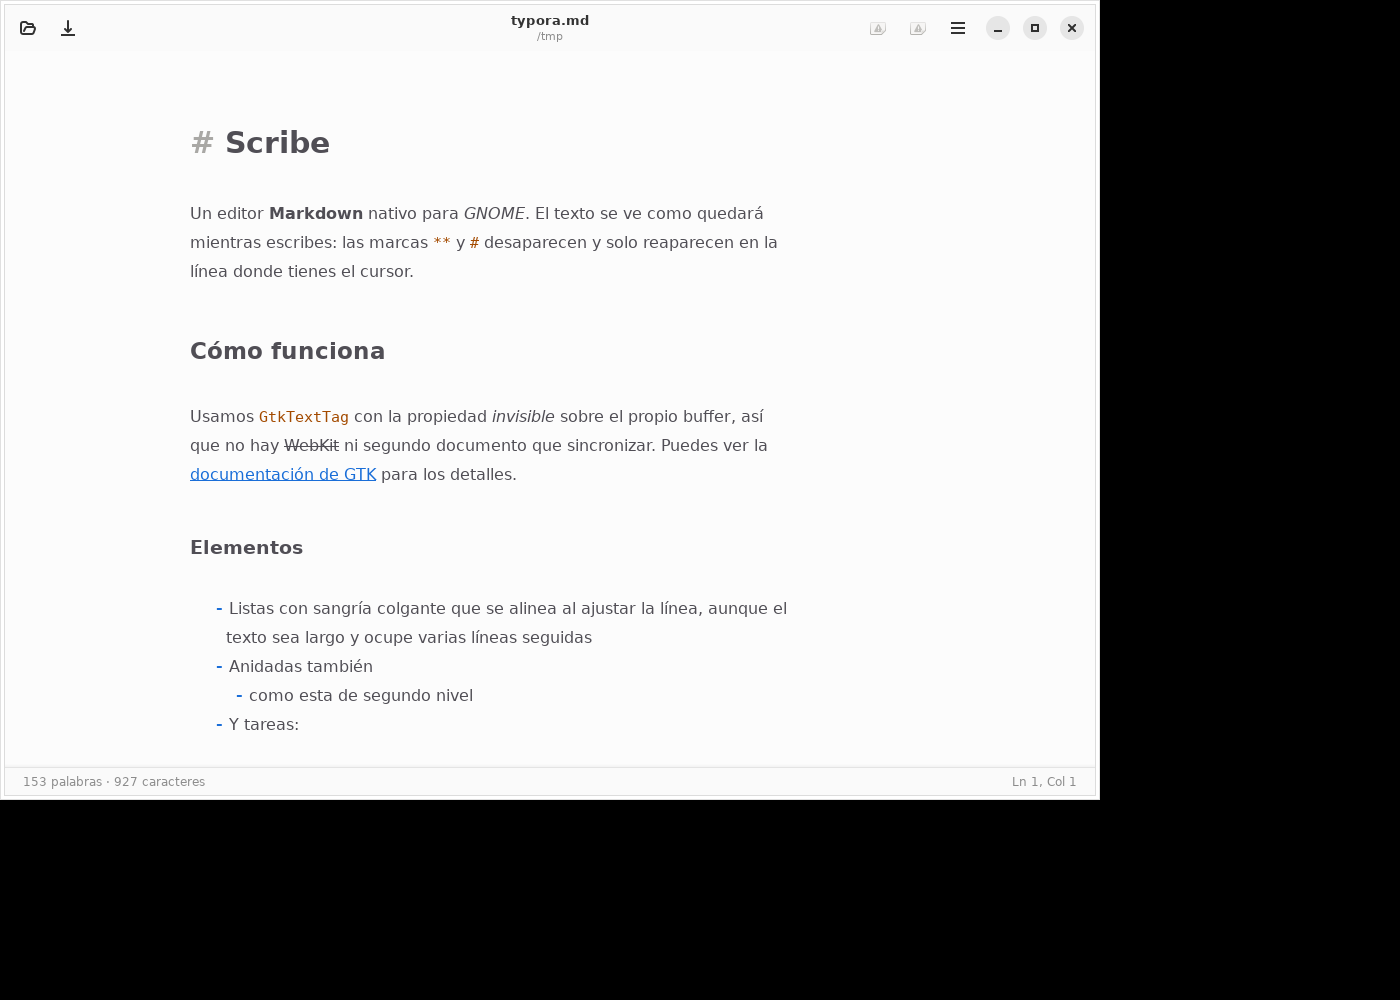
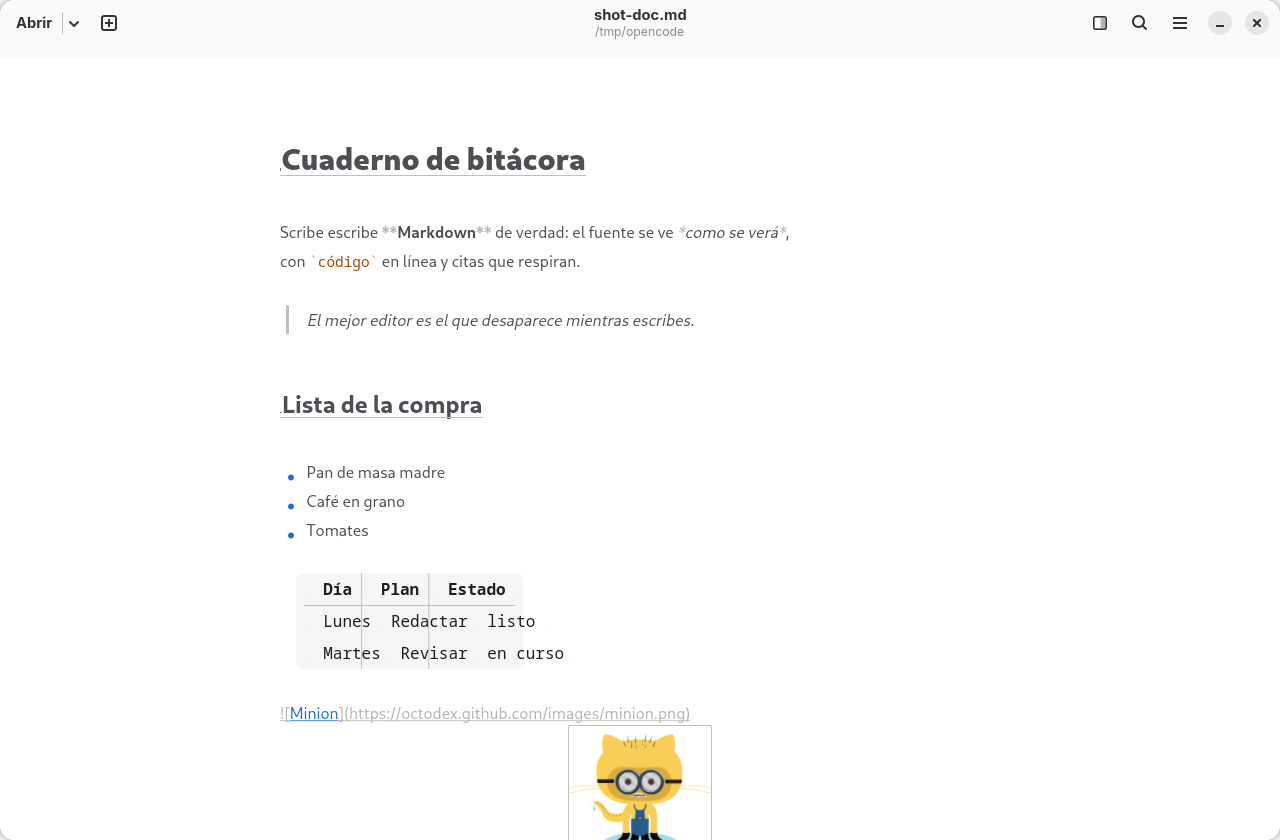
docs: refresh the screenshots for the current UI
The old shots showed the status bar and the previous menu. The hero
(light and dark) is re-taken without the bar and with a table, a list and
a picture painted from a URL; the stale menu shot is replaced by the split
preview and the find bar, both new since the last capture round.

diff --git a/README.es.md b/README.es.md
@@ -188,13 +188,17 @@ La interfaz está actualmente en español.
 <picture>
   <source media="(prefers-color-scheme: dark)" srcset="assets/hero-es-dark.png">
   <source media="(prefers-color-scheme: light)" srcset="assets/hero-es-light.png">
-  <img alt="Ventana principal del editor con cabeceras, negrita, cursiva, código y una cita" src="assets/hero-es-light.png" width="800">
+  <img alt="Ventana principal del editor con cabeceras, negrita, cursiva, una cita, una lista, una tabla y una imagen pintada desde una URL" src="assets/hero-es-light.png" width="800">
 </picture>
 
-**Menú principal con controles de zoom**
+**Vista dividida (con el icono de la cabecera) y buscar en el documento**
 
 <p align="center">
-  <img alt="Menú con las opciones de abrir, guardar, zoom y vista" src="assets/screenshot-menu-es-light.png" width="800">
+  <img alt="Editor con la vista dividida a la derecha renderizando el mismo documento" src="assets/screenshot-split-es-light.png" width="800">
+</p>
+
+<p align="center">
+  <img alt="Barra de buscar dentro del panel del editor, con anterior y siguiente" src="assets/screenshot-find-es-light.png" width="800">
 </p>
 
 **Ventana de preferencias**

diff --git a/README.md b/README.md
@@ -170,13 +170,17 @@ The interface is currently in Spanish.
 <picture>
   <source media="(prefers-color-scheme: dark)" srcset="assets/hero-es-dark.png">
   <source media="(prefers-color-scheme: light)" srcset="assets/hero-es-light.png">
-  <img alt="Main editor window with headings, bold, italic, code and a quote block" src="assets/hero-es-light.png" width="800">
+  <img alt="Main editor window with headings, bold, italic, a quote, a list, a table and a picture painted from a URL" src="assets/hero-es-light.png" width="800">
 </picture>
 
-**Main menu with zoom controls**
+**Split preview (toggled from the header icon) and find in the document**
 
 <p align="center">
-  <img alt="Menu showing open, save, zoom and view options" src="assets/screenshot-menu-es-light.png" width="800">
+  <img alt="Editor with the split preview on the right rendering the same document" src="assets/screenshot-split-es-light.png" width="800">
+</p>
+
+<p align="center">
+  <img alt="Find bar inside the editor pane with next and previous" src="assets/screenshot-find-es-light.png" width="800">
 </p>
 
 **Preferences window**
